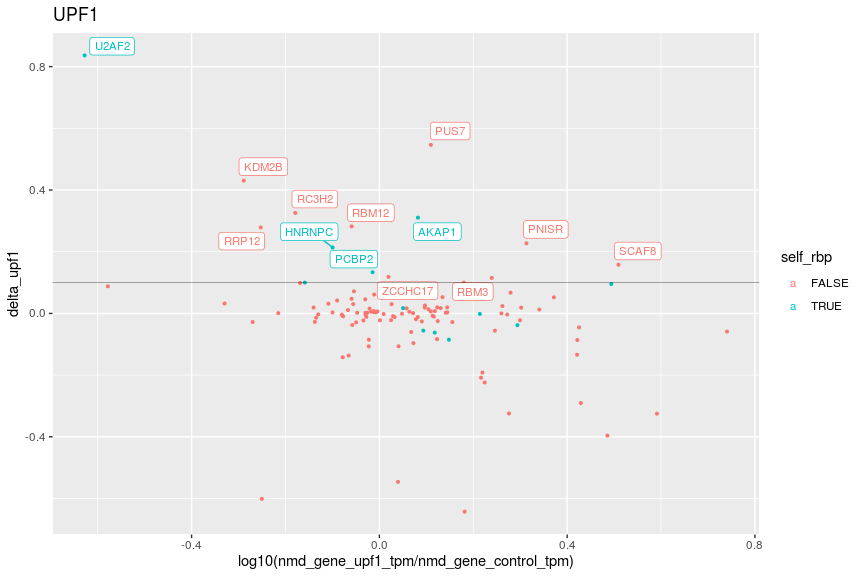
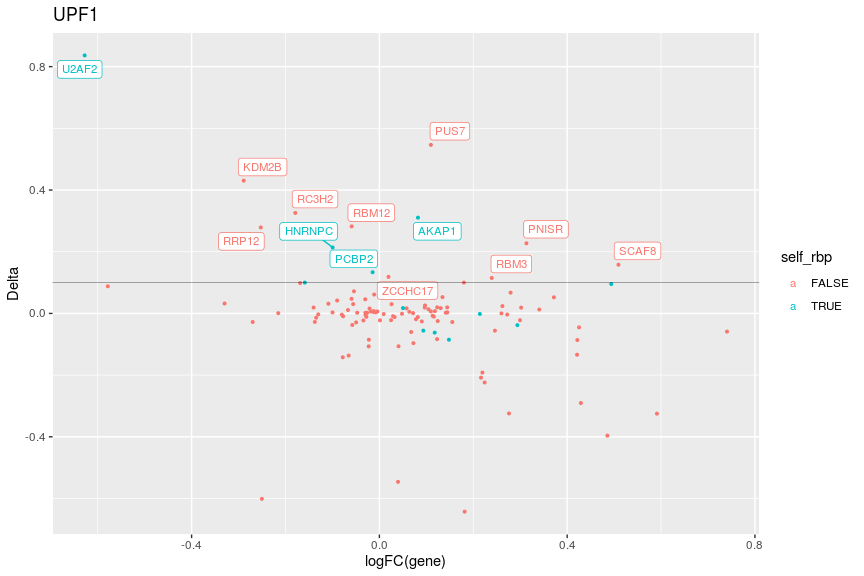
update

diff --git a/genes_plots.md b/genes_plots.md
@@ -5,14 +5,14 @@ Investigating genes
 library(tidyverse)
 ```
 
-    ## ── Attaching packages ──────────────────────────────────────────────────────────────────────────────────────────────────────────────────────────────── tidyverse 1.3.0 ──
+    ## ── Attaching packages ──────────────────────────────────────────────────────────────── tidyverse 1.3.0 ──
 
     ## ✓ ggplot2 3.3.0     ✓ purrr   0.3.3
     ## ✓ tibble  3.0.0     ✓ dplyr   0.8.5
     ## ✓ tidyr   1.0.2     ✓ stringr 1.4.0
     ## ✓ readr   1.3.1     ✓ forcats 0.5.0
 
-    ## ── Conflicts ─────────────────────────────────────────────────────────────────────────────────────────────────────────────────────────────────── tidyverse_conflicts() ──
+    ## ── Conflicts ─────────────────────────────────────────────────────────────────── tidyverse_conflicts() ──
     ## x dplyr::filter() masks stats::filter()
     ## x dplyr::lag()    masks stats::lag()
 
@@ -179,7 +179,8 @@ ggplot(
     ),
     size = 3
   ) +
-  geom_hline(yintercept = 0.1, size = 0.1)
+  geom_hline(yintercept = 0.1, size = 0.1) +
+  xlab('logFC(gene)') + ylab('Delta')
 ```
 
 ![](genes_plots_files/figure-gfm/unnamed-chunk-10-1.png)<!-- -->
@@ -204,7 +205,52 @@ ggplot(
     ),
     size = 3
   ) +
-  geom_hline(yintercept = 0.1, size = 0.1)
+  geom_hline(yintercept = 0.1, size = 0.1) +
+  xlab('logFC(gene)') + ylab('Delta')
 ```
 
 ![](genes_plots_files/figure-gfm/unnamed-chunk-11-1.png)<!-- -->
+
+``` r
+ggplot(
+  data = gd[keep_upf1 & !is.na(gd$diff_score), ],
+  mapping = aes(
+    x = diff_score,
+    y = delta_upf1,
+  )
+) + geom_point(size = 0.75) + ggtitle('Delta (UPF1) vs Kozak') +
+  xlab('Kozak score difference') + ylab('Delta')
+```
+
+![](genes_plots_files/figure-gfm/unnamed-chunk-12-1.png)<!-- -->
+
+``` r
+ggplot(
+  data = gd[keep_upf1 & !is.na(gd$diff_score) & gd$diff_score > 0 & gd$is_rbp, ],
+  mapping = aes(
+    x = diff_score,
+    y = delta_upf1,
+    color = self_rbp,
+    label = gene_name
+  )
+) + geom_point(size = 0.75) + ggtitle('Delta (UPF1) vs Kozak (RBP genes only)') +
+  xlab('Kozak score difference') + ylab('Delta') +
+  geom_label_repel()
+```
+
+![](genes_plots_files/figure-gfm/unnamed-chunk-13-1.png)<!-- -->
+
+``` r
+ggplot(
+  data = gd[!is.na(gd$delta_KD) & gd$delta_KD != 0, ],
+  mapping = aes(
+    x = log10(kd_gene_knockdown_tpm / kd_gene_control_tpm),
+    y = delta_KD,
+    color = self_rbp,
+    label = gene_name
+  )
+) + geom_point() + ggtitle('shRNA KD') +
+  xlab('logFC(gene)') + ylab('Delta for KD') + geom_label_repel()
+```
+
+![](genes_plots_files/figure-gfm/unnamed-chunk-14-1.png)<!-- -->
